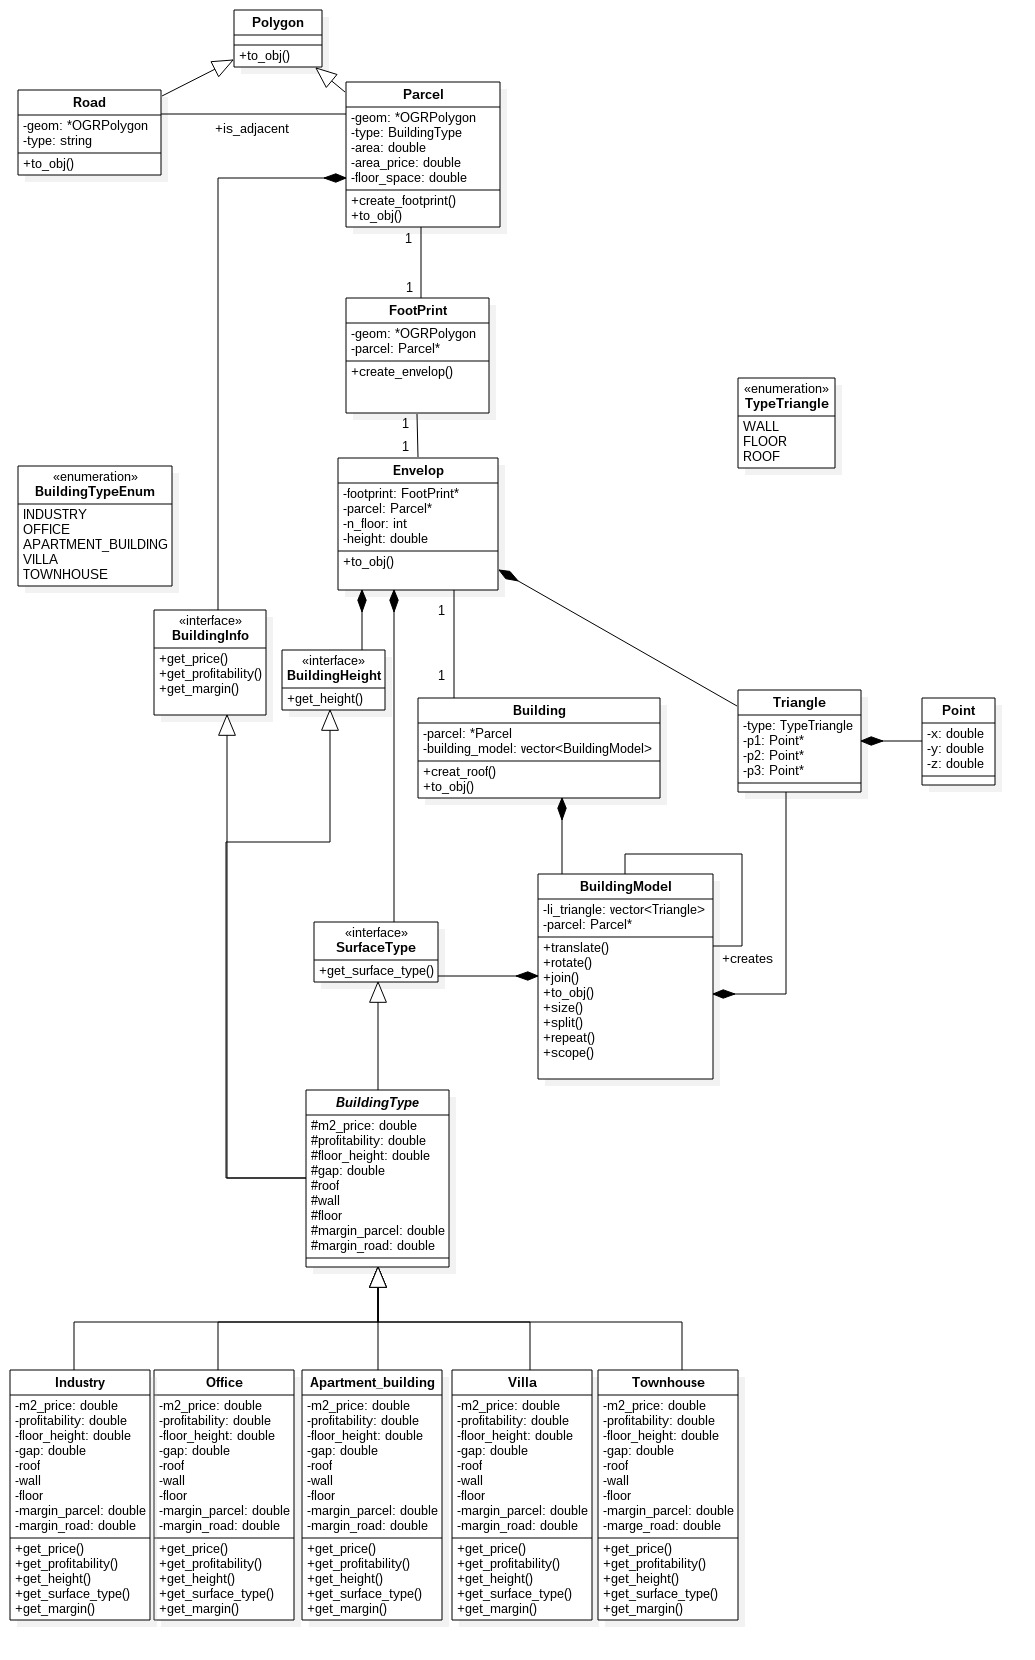
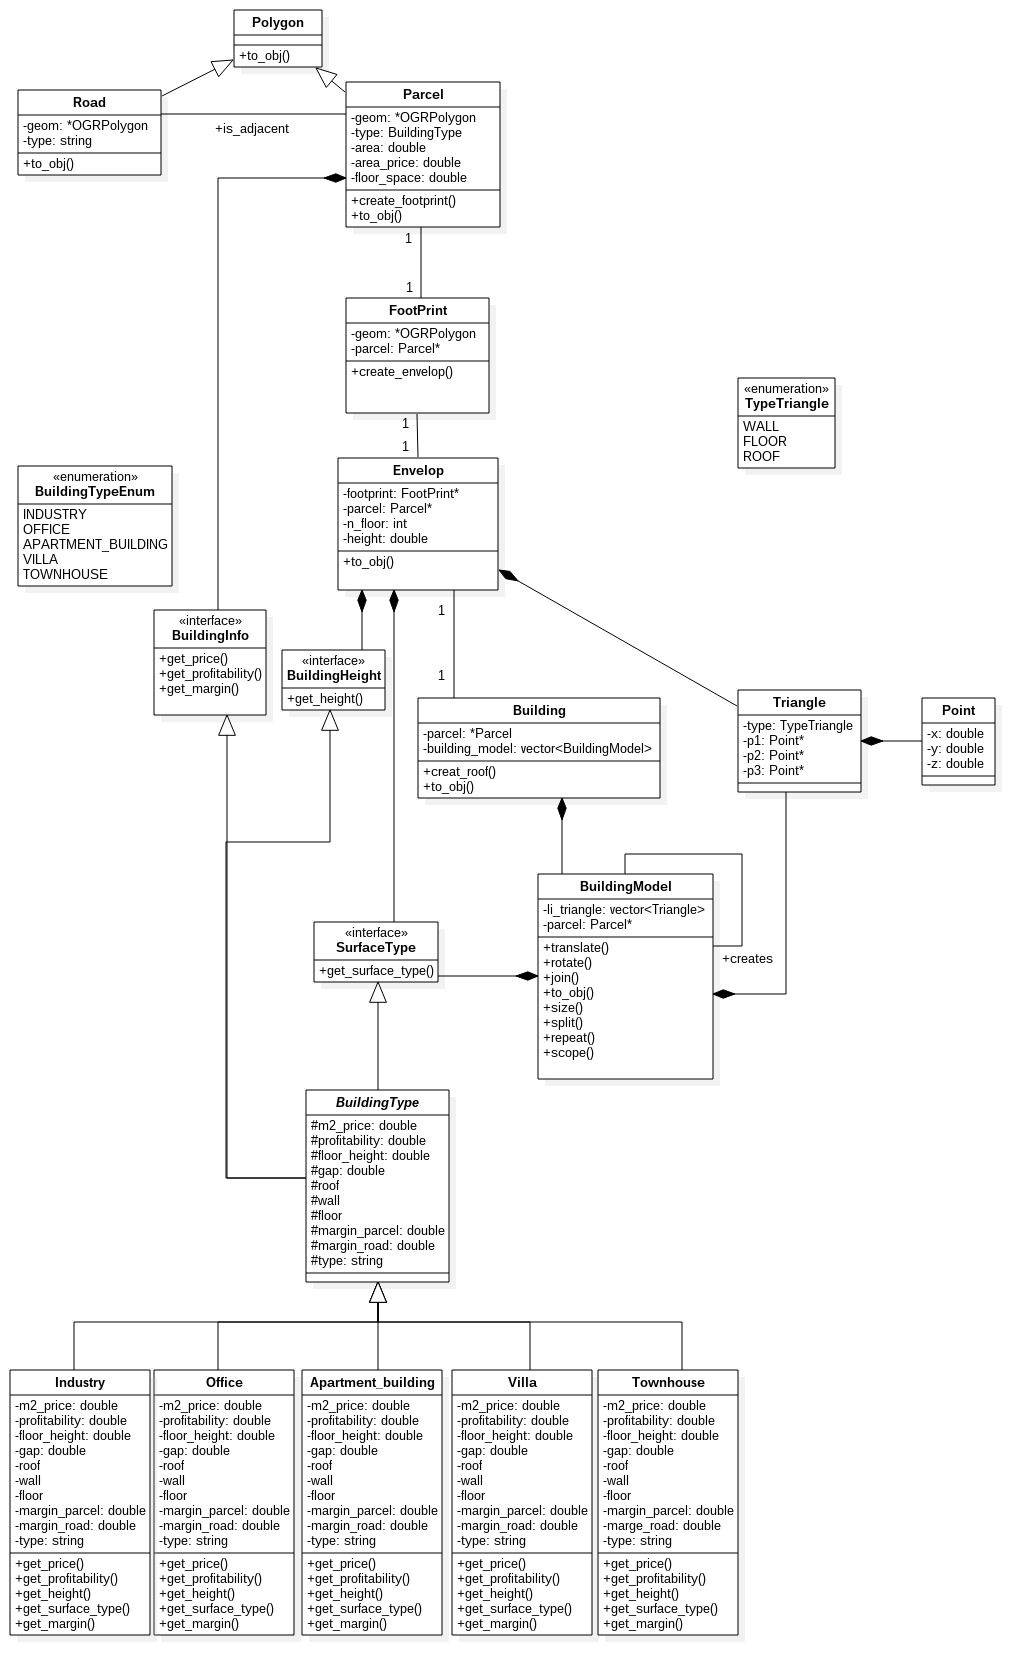
UML update; start update of Building class

diff --git a/src/Building.cpp b/src/Building.cpp
@@ -1,11 +1,18 @@
 #include "Building.h"
 #include "Parcel.h"
 #include "BuildingModel.h"
+#include "Envelop.h"
 #include <vector>
 
-Building::Building()
+Building::Building(Envelop* env)
 {
     //ctor
+    parcel=env->get_parcel();
+    string parcel_type = parcel->get_type()->get_type();
+    cout << parcel_type << endl;
+
+    //rectangle
+
 }
 
 Building::~Building()
@@ -21,3 +28,4 @@ void Building::to_obj(OGRPoint* centroid)
 {
     //
 }
+

diff --git a/include/Building.h b/include/Building.h
@@ -3,6 +3,7 @@
 
 #include "Parcel.h"
 #include "BuildingModel.h"
+#include "Envelop.h"
 #include <vector>
 
 class Building
@@ -12,10 +13,11 @@ class Building
 *Contain the Building.
 */
     public:
-        Building();
+        Building(Envelop* env);
         /**
         *@fn Building::Building()
         *Constructor.
+        *@param[in] env : envelop object
         */
         virtual ~Building();
         /**
